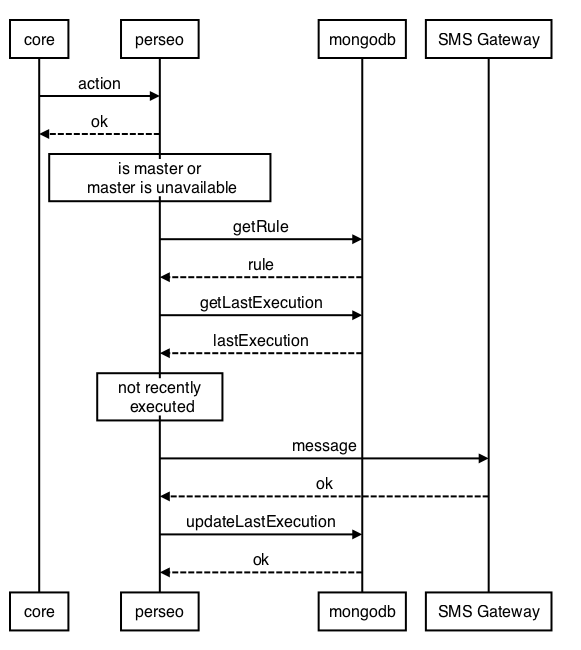
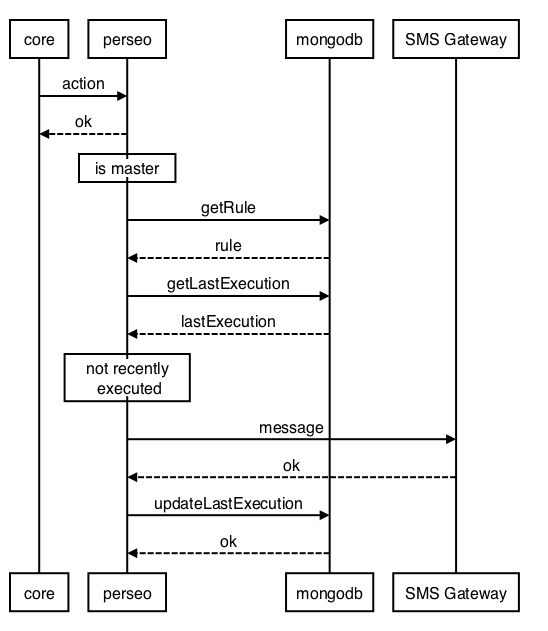
Update doc

Changed region(s): [[0.0, 0.0301, 0.9617, 0.9937]]

diff --git a/documentation/architecture.md b/documentation/architecture.md
@@ -174,7 +174,7 @@ The rule and action is specified by an old-compatible format used in the portal,
 	}
 ```
 
-Aditional info about VisualRules: [DCA documentation](https://colabora.tid.es/dca/SitePages/Inicio.aspx) (RESTAPI-SBC_2.6, section 6.15)
+Additional info about VisualRules: [DCA documentation](https://colabora.tid.es/dca/SitePages/Inicio.aspx) (RESTAPI-SBC_2.6, section 6.15)
 
 #### "Plain" rules
 A simplified format in JSON can be used to represent rules. The former visual rule would be represented so:
@@ -194,7 +194,7 @@ A simplified format in JSON can be used to represent rules. The former visual ru
 	},
 }
 ```
-Actuallly, visual rules are translated to "plain" rules by perseo internally. This is transparent for the portal which only see visual rules (create, update, delete)
+Actually, visual rules are translated to "plain" rules by perseo internally. This is transparent for the portal which only see visual rules (create, update, delete)
 
 #### EPL
 
@@ -221,7 +221,7 @@ The action included in rule allows sending an email, sending an SMS or updating 
 
 ## HA
 
-The scheme for HA has two sets of perseo and perseo-core components, connected each other. Each set follows the "normal" flow mentioned before. Rules and events are processed by perseo and sent to its associated core. Additionally, the rule and event are *propagated* to the "next" core. Only at the time of executing an action there is an asymmetry between the two sets. The "master" always executes the action. The slave (substitute could be a more appropiate name) executes the action only and only if it "thinks" that the master is not available. The slave checks the availability of the master periodically, making an HTTP request to the master.
+The scheme for HA has two sets of perseo and perseo-core components, connected each other. Each set follows the "normal" flow mentioned before. Rules and events are processed by perseo and sent to its associated core. Additionally, rules and events are *propagated* to the "next" core. Only at the time of executing an action there is an asymmetry between the two sets. The "master" always executes the action. The slave (substitute could be a more appropriate name) executes the action only and only if it "thinks" that the master has not been able to do it. The slave waits a configurable time and then checks in mongoDB if an action for the original notice has been executed already. If not, it executes the action, else it forgets the action.
 
 Events and rules can be sent to the perseo FEs by a load balancer in a round-robin fashion. Regardless which FE receives the event/rule, this one will arrive to both cores. Both will make the same inferences and each one will trigger an action if it is necessary.
 
@@ -248,13 +248,13 @@ In the following diagramas, Portal is depicted as the component managing rules (
 ![Imagen](images/notify.png)
 
 
-### Executing an action
+### Executing an action (master)
 ![Imagen](images/fire_action.png)
 
 
-### Slave checking master availability
-![Imagen](images/check_master.png)
+### Executing an action (slave)
+![Imagen](images/fire_action_slave.png)
 
-### Non-update action
+### No-update action
 ![Imagen](images/nosignal.png)
 

diff --git a/documentation/configuration.md b/documentation/configuration.md
@@ -4,6 +4,7 @@ All the configuration of the CEP is stored in the `config.js` file in the root o
 
 ### Basic Configuration
 In order to have perseo running, there are several basic pieces of information to fill:
+* `config.logLevel`: level for log messages (`FATAL`, `ERROR`, `INFO` or `DEBUG`)
 * `config.perseoCore.rulesURL`: URL for management of EPL rules at core.
 * `config.perseoCore.noticesURL`: URL for processing events at core rule engine.
 * `config.perseoCore.interval`: interval for refreshing rules at core rule engine (milliseconds).
@@ -14,12 +15,11 @@ In order to have perseo running, there are several basic pieces of information t
 * `config.sms.API_SECRET`: API SECRET for sending SMSs, if necessary.
 * `config.orion.URL`: URL for updating contexts at Orion (Context Broker).
 * `config.mongo.URL`: URL for connecting mongoDB.
+* `config.executionsTTL`: Time-To-Live for documents of action executions (seconds).
 
 Options for HA:
 * `config.isMaster`: `true` if this one is the master or `false` it it is the slave.
-* `config.master.checkURL`: URL for the slave to check master is alive.
-* `config.master.interval`: interval for the slave to check master is alive (milliseconds).
-* `config.master.reportInterval`: interval for repeating the log about master is not alive (milliseconds).
+* `config.slaveDelay`: Slave's delay to try to execute an action (milliseconds).
 * `config.nextCore.rulesURL`: URL for management of EPL rules at *replicated* core. If set, the rules will be propagated to that one also.
 * `config.nextCore.noticesURL`: URL for processing events at *replicated* core rule engine. If set, the events will be propagated to that one also.
 

diff --git a/documentation/logs.md b/documentation/logs.md
@@ -7,7 +7,7 @@ Logs have levels `FATAL`, `ERROR`, `INFO` and `DEBUG`. The log level must be set
  * Default log level. Can be one of: 'DEBUG', 'INFO', 'WARN', 'ERROR', 'FATAL'
  * @type {string}
  */
-config.logLevel = 'DEBUG';
+config.logLevel = 'INFO';
 ```
 
  In order to have logs that can enable alarms being raised and ceased, `INFO` level should be set in the configuration file.
